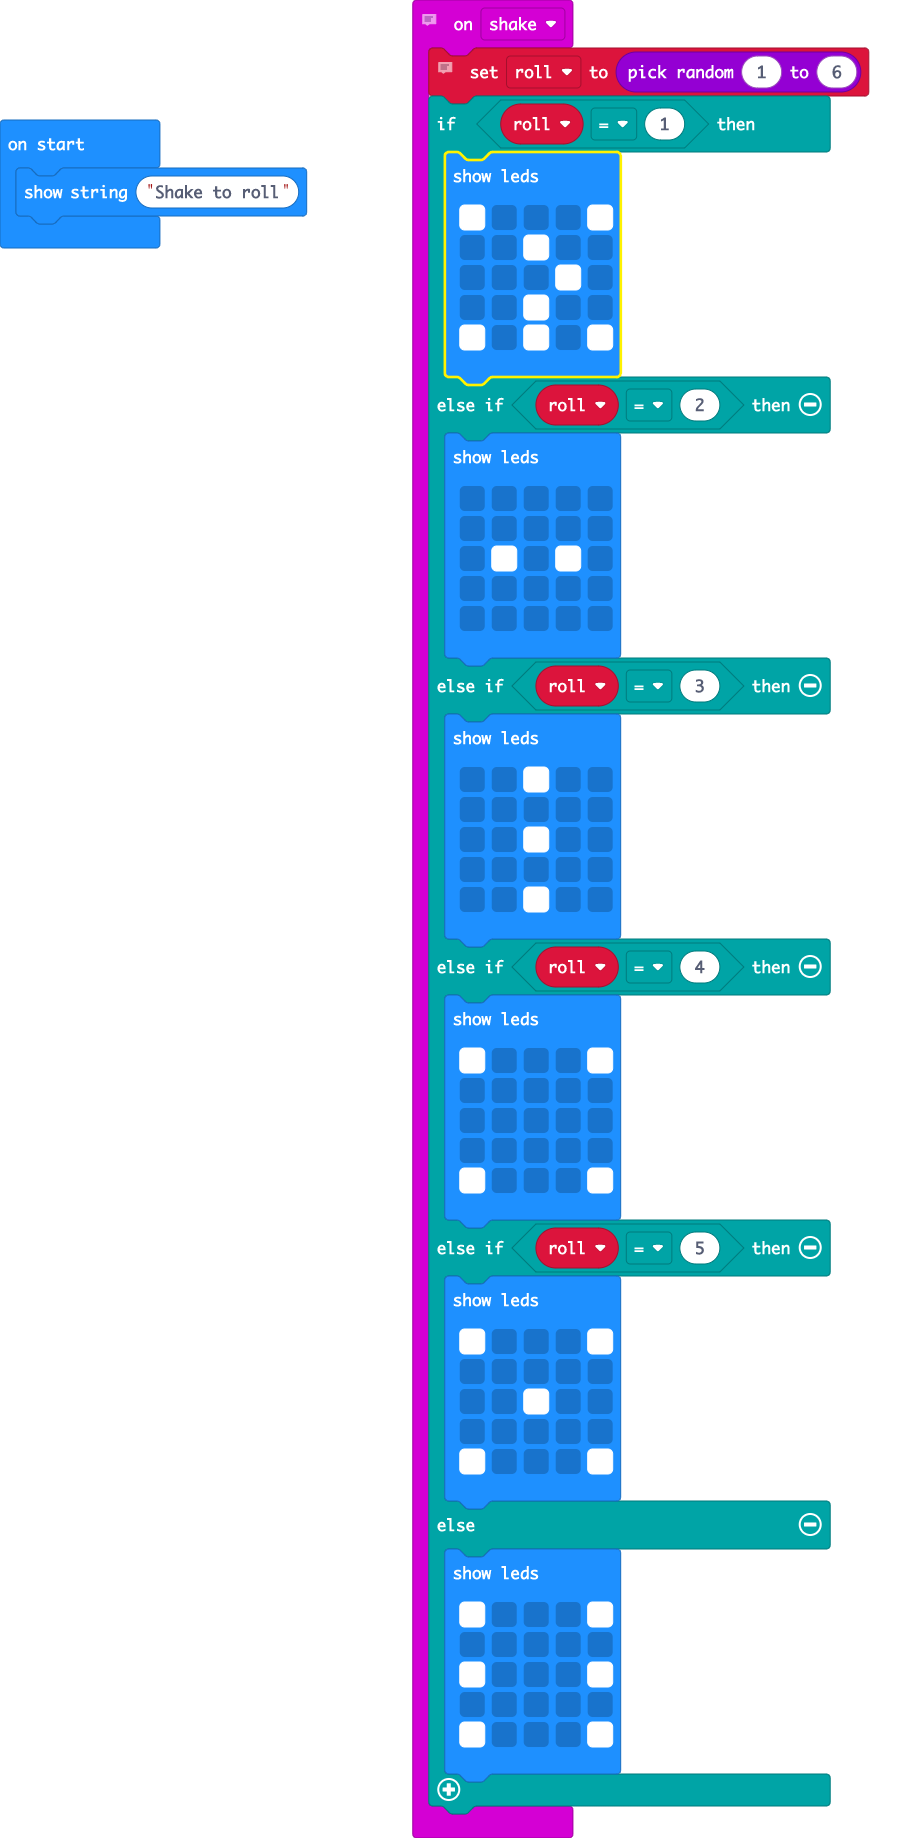
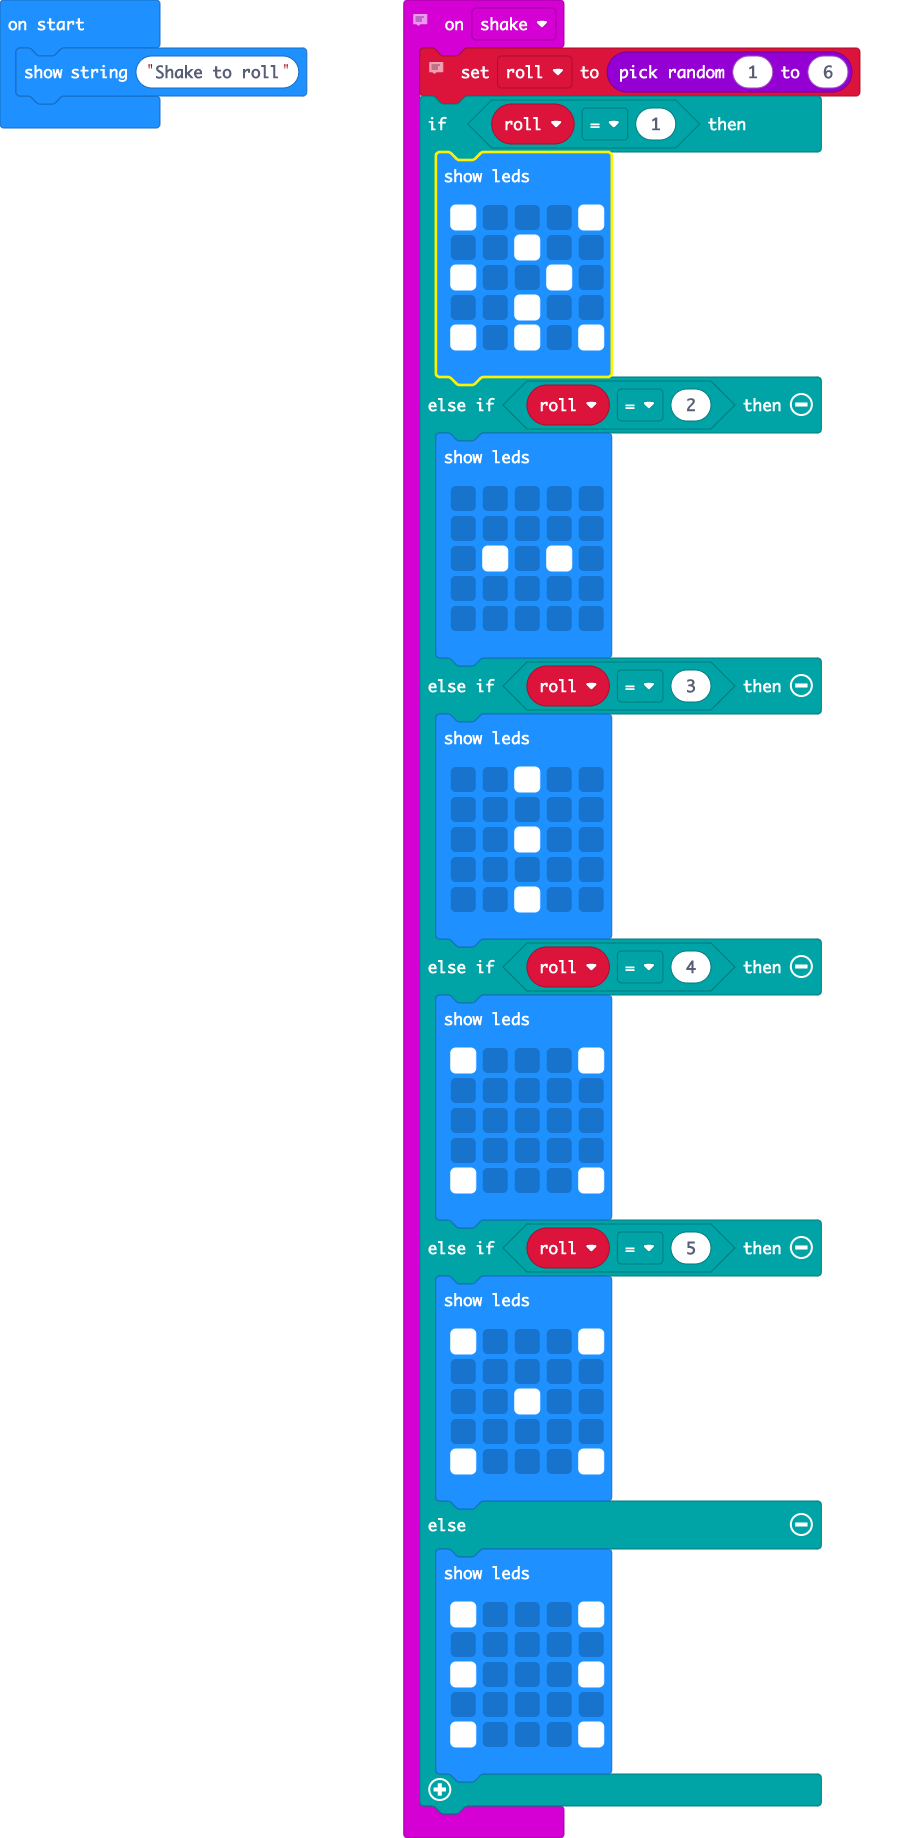
Update main.blocks, main.ts

diff --git a/main.ts b/main.ts
@@ -8,7 +8,7 @@ input.onGesture(Gesture.Shake, function () {
         basic.showLeds(`
             # . . . #
             . . # . .
-            . . . # .
+            # . . # .
             . . # . .
             # . # . #
             `)
